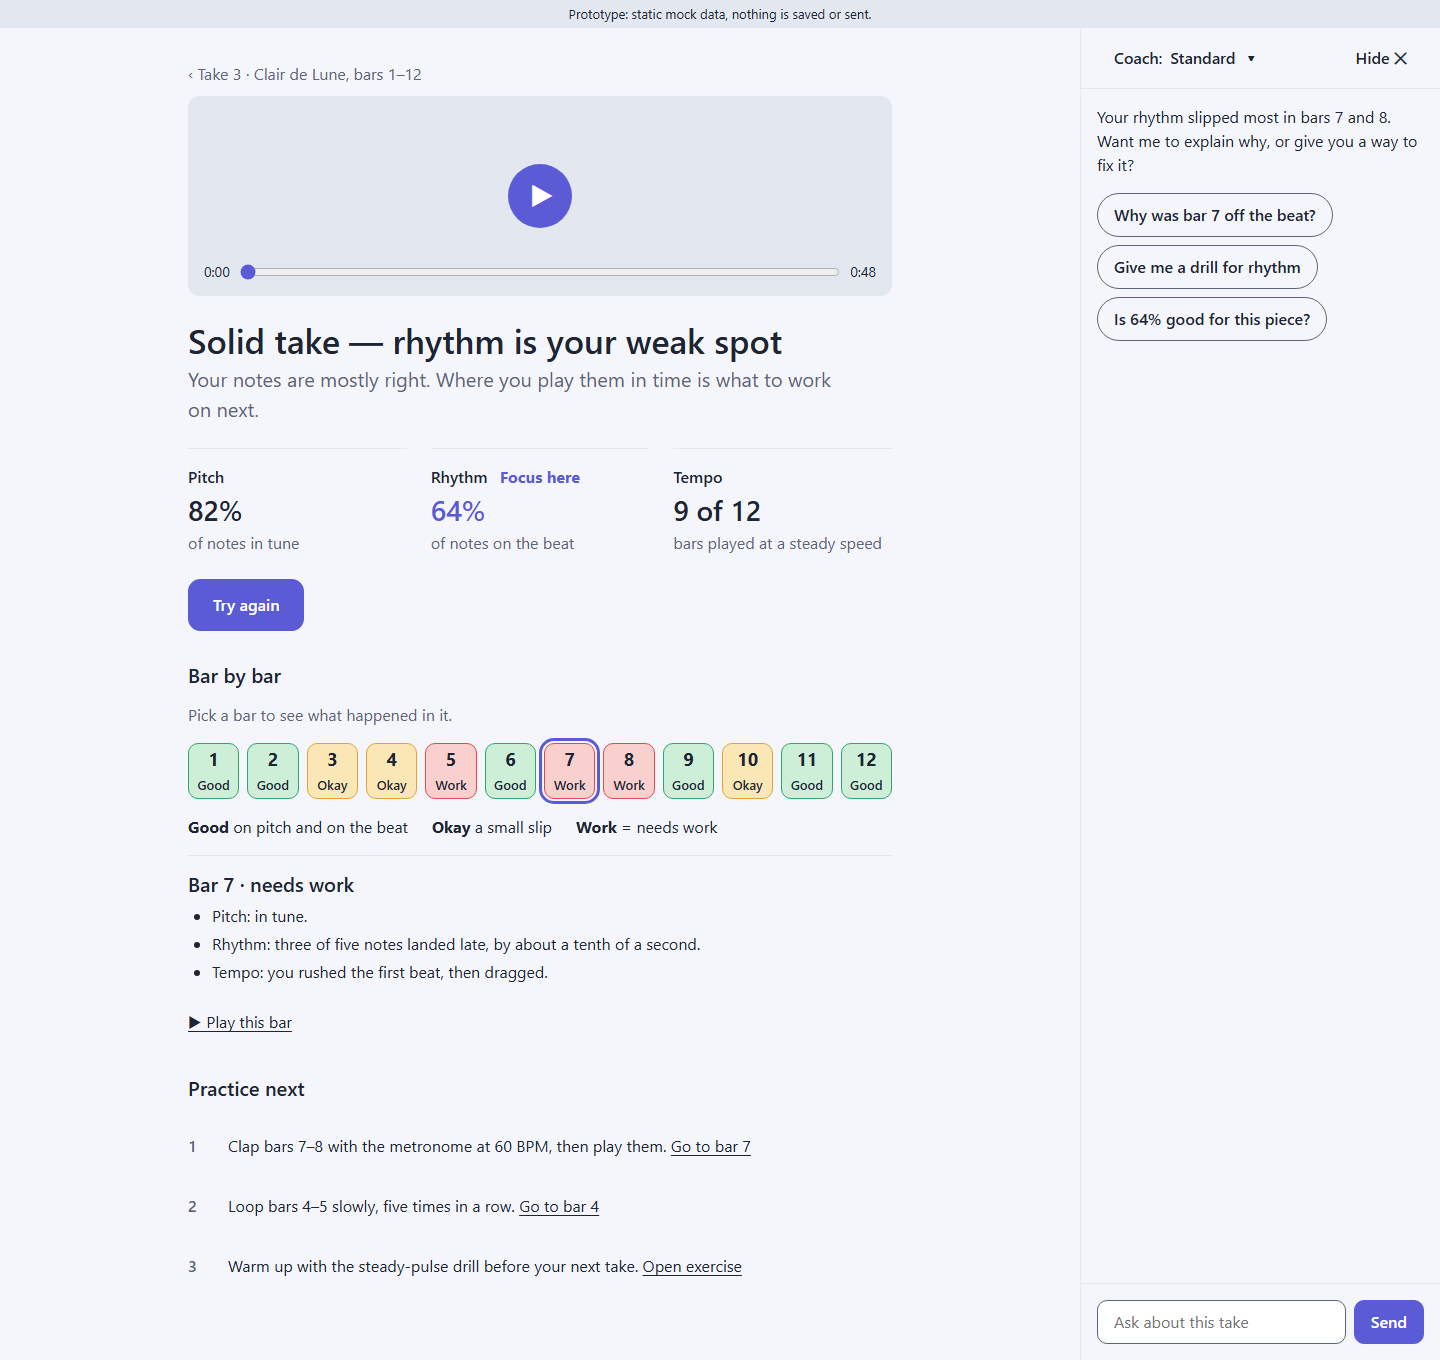
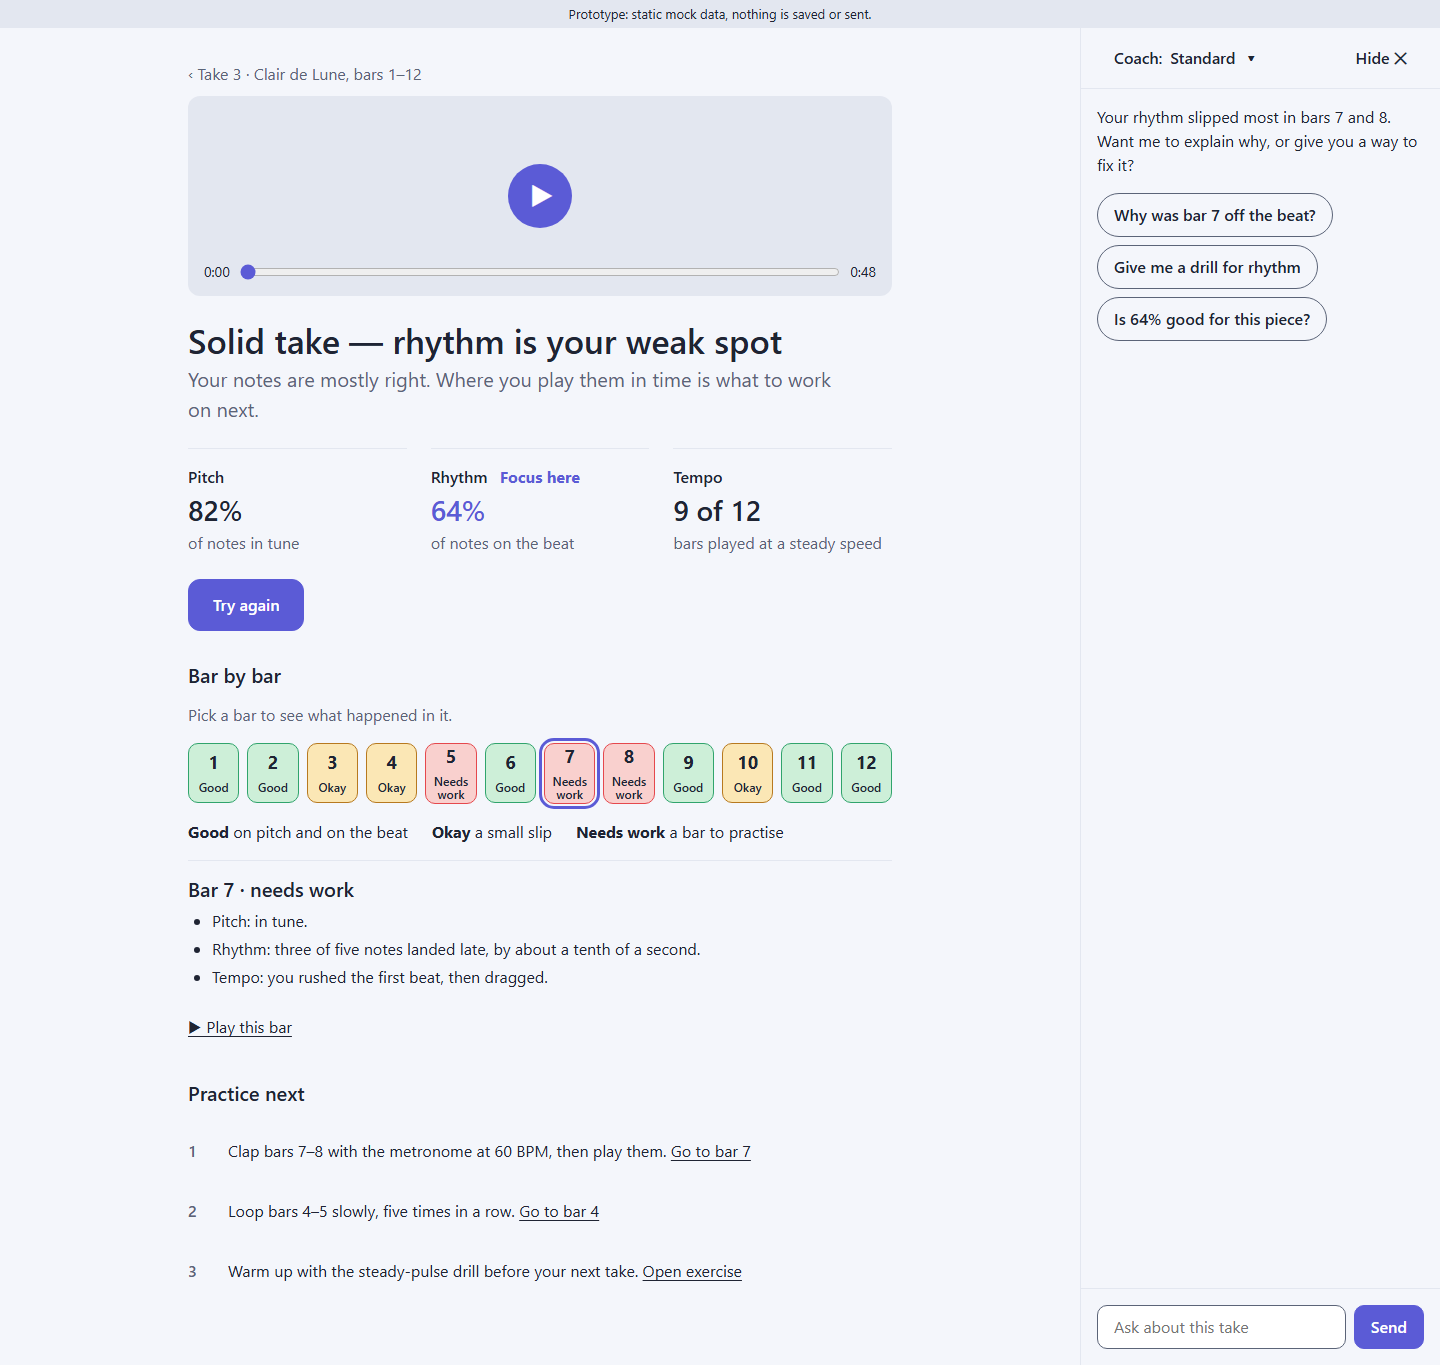
Prototype v2: darker Okay border (3.64:1), 'Needs work' wraps in the bar box; drop contrast-output.txt

diff --git a/frontend/dev/prototype/results-v2.html b/frontend/dev/prototype/results-v2.html
@@ -30,7 +30,7 @@
     /* The same in every palette: the status colours (a soft fill with a stronger 1px border) and what is derived from the per-palette ones */
     :root {
       --c-good-fill: #cdefd8;  --c-good-border: #30a46c;
-      --c-okay-fill: #fbe7b5;  --c-okay-border: #e2a336;
+      --c-okay-fill: #fbe7b5;  --c-okay-border: #b7791f;
       --c-work-fill: #f9d0ce;  --c-work-border: #e5484d;
       --c-line-strong: var(--c-ink-soft);   /* the edge of a control (chip, input): needs 3:1 */
       --c-focus-text: var(--c-accent);      /* "Focus here" and the weakest score */
@@ -83,9 +83,9 @@
     .bars-head h2 { margin-top: 0; }
     .bars-head p { margin: 0; color: var(--soft-ink); }
     .bar-row { display: grid; grid-template-columns: repeat(6, 1fr); gap: var(--sp-2); margin: var(--sp-3) 0 0; padding: 0; list-style: none; }
-    .bar-box { display: flex; flex-direction: column; align-items: center; justify-content: center; width: 100%; min-height: 56px; padding: 0; border: 1px solid var(--line-strong); border-radius: var(--radius); background: var(--surface); color: var(--c-bar-ink); font: inherit; font-weight: 600; line-height: 1.15; cursor: pointer; }
+    .bar-box { display: flex; flex-direction: column; align-items: center; justify-content: center; width: 100%; min-height: 60px; padding: 2px 0; border: 1px solid var(--line-strong); border-radius: var(--radius); background: var(--surface); color: var(--c-bar-ink); font: inherit; font-weight: 600; line-height: 1.15; cursor: pointer; }
     .bar-box .num { font-size: 18px; font-weight: 700; }
-    .bar-box .word { font-size: var(--fs-caption); font-weight: 600; }
+    .bar-box .word { font-size: 12px; font-weight: 600; line-height: 1.1; text-align: center; text-wrap: balance; }
     .bar-box[data-level="good"] { border-color: var(--c-good-border); background: var(--c-good-fill); }
     .bar-box[data-level="okay"]   { border-color: var(--c-okay-border); background: var(--c-okay-fill); }
     .bar-box[data-level="work"]  { border-color: var(--c-work-border); background: var(--c-work-fill); }
@@ -185,7 +185,7 @@
             <p>Pick a bar to see what happened in it.</p>
           </div>
           <ul class="bar-row" id="bar-row" role="list"></ul>
-          <p class="legend"><span><b>Good</b> on pitch and on the beat</span><span><b>Okay</b> a small slip</span><span><b>Work</b> = needs work</span></p>
+          <p class="legend"><span><b>Good</b> on pitch and on the beat</span><span><b>Okay</b> a small slip</span><span><b>Needs work</b> a bar to practise</span></p>
           <div class="detail" id="detail" aria-live="polite"></div>
         </section>
 
@@ -250,7 +250,7 @@
       { level: 'good', notes: ['Pitch: all notes in tune.', 'Rhythm: on the beat.', 'Tempo: steady.'] },
       { level: 'good', notes: ['Pitch: all notes in tune.', 'Rhythm: on the beat.', 'Tempo: steady.'] },
     ];
-    const LABEL = { good: 'Good', okay: 'Okay', work: 'Work' }; // short, to fit the box; the heading and aria-label spell out "needs work"
+    const LABEL = { good: 'Good', okay: 'Okay', work: 'Needs work' }; // wraps to two lines in the box
     const WORD = { good: 'good', okay: 'okay', work: 'needs work' };
 
     const row = document.getElementById('bar-row');
